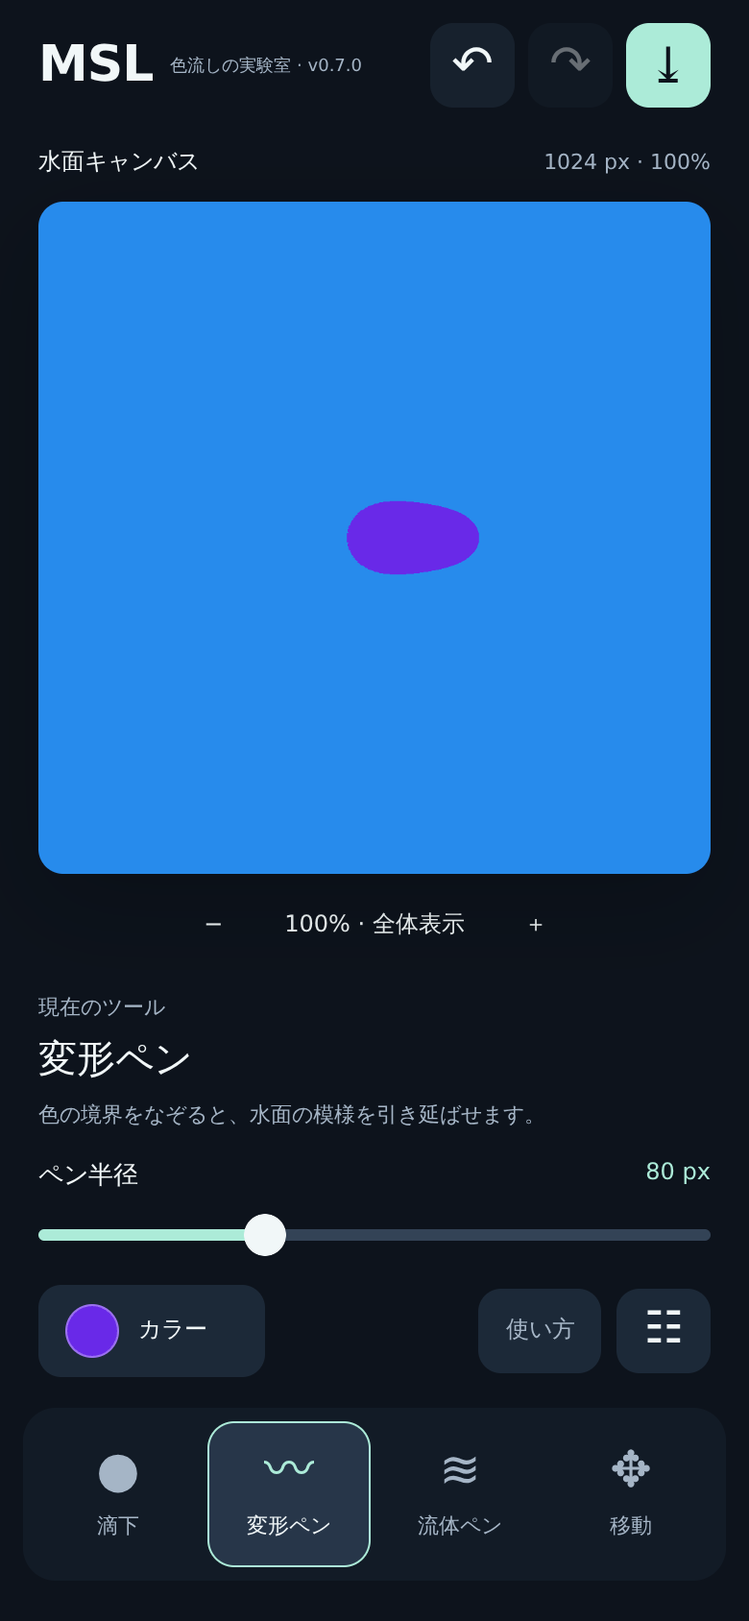
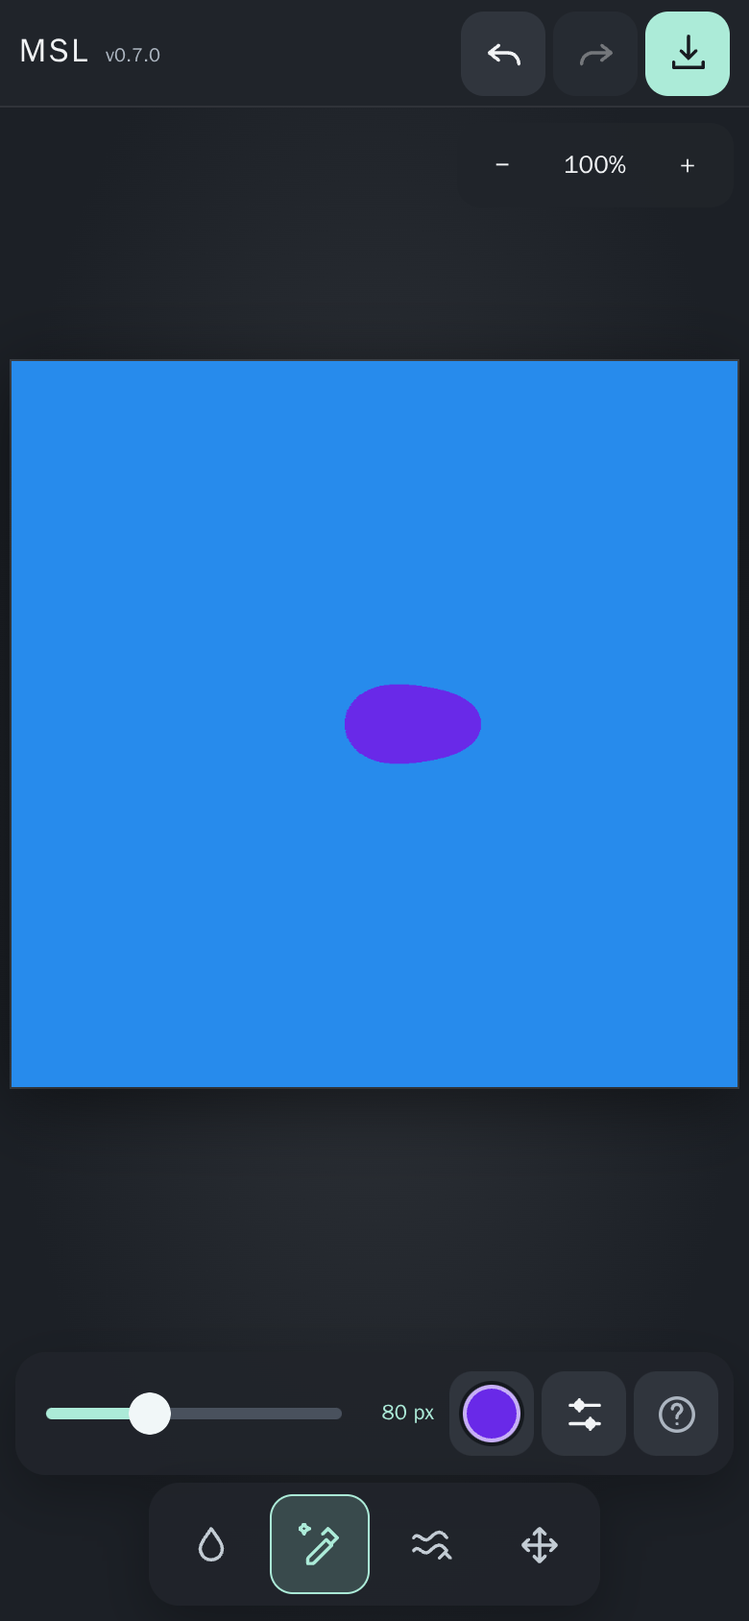
キャンバス拡大とアイビス風UI

diff --git a/src/app/styles.css b/src/app/styles.css
@@ -1,45 +1,45 @@
 :root {
   font-family: "Noto Sans JP", system-ui, sans-serif;
-  color: #f1f7f8; background: #0d131c; color-scheme: dark; font-synthesis: none;
-  --bg: #0d131c; --panel: #1c2938; --button: #17212d; --muted: #a5b5c6;
-  --accent: #acebd8; --line: #334356; --selected: #273649;
+  color: #f1f3f5; background: #181b20; color-scheme: dark; font-synthesis: none;
+  --bg: #181b20; --panel: #272b32; --button: #30353d; --muted: #acb5c0;
+  --accent: #acebd8; --line: #49515d; --selected: #394a4c;
   --safe-top: env(safe-area-inset-top, 0px); --safe-bottom: env(safe-area-inset-bottom, 0px);
 }
 * { box-sizing: border-box; }
 body { margin: 0; }
 button, input, select { font: inherit; }
 button, select, input[type=number], input[type=text] { border: 1px solid var(--line); border-radius: 12px; background: var(--button); color: inherit; }
-button { min-height: 44px; padding: 10px 14px; cursor: pointer; touch-action: manipulation; transition: background .15s; }
+button { min-height: 44px; padding: 10px 14px; cursor: pointer; touch-action: manipulation; }
 button:active { background: var(--selected); }
 button:disabled { opacity: .4; cursor: default; }
 button:focus-visible, input:focus-visible, select:focus-visible, summary:focus-visible, canvas:focus-visible { outline: 3px solid var(--accent); outline-offset: 3px; }
 @media (hover: hover) { button:hover:not(:disabled) { background: var(--selected); } }
+@media (prefers-reduced-motion: no-preference) { button { transition: background .15s; } }
 .primary { background: var(--accent); color: var(--bg); border-color: var(--accent); font-weight: 700; }
 @media (hover: hover) { .primary:hover:not(:disabled) { background: #d0f5e9; } }
-.app { min-height: 100vh; min-height: 100dvh; padding: var(--safe-top) env(safe-area-inset-right, 0px) var(--safe-bottom) env(safe-area-inset-left, 0px); display: flex; flex-direction: column; }
-.topbar { display: flex; align-items: center; justify-content: space-between; gap: 12px; padding: 18px 28px; border-bottom: 1px solid #1c2938; }
-.brand { display: flex; align-items: center; gap: 14px; min-width: 0; }
-h1 { margin: 0; font-size: 26px; letter-spacing: -.5px; }
-.brand div { display: grid; gap: 4px; }
-.brand div > span { font-size: 9px; letter-spacing: .5px; color: var(--muted); }
+.app { height: 100vh; height: 100dvh; min-height: 0; padding: var(--safe-top) env(safe-area-inset-right, 0px) var(--safe-bottom) env(safe-area-inset-left, 0px); display: flex; flex-direction: column; overflow: hidden; }
+.topbar { flex: none; display: flex; align-items: center; justify-content: space-between; gap: 12px; min-height: 56px; padding: 5px 16px; border-bottom: 1px solid #ffffff12; background: #20242a; }
+.brand { display: flex; align-items: baseline; gap: 8px; min-width: 0; }
+h1 { margin: 0; font-size: 17px; font-weight: 800; letter-spacing: .08em; }
 .brand small { font-size: 10px; color: var(--muted); }
-.actions { display: flex; gap: 7px; }
-.icon-button { width: 44px; height: 44px; border: 0; padding: 0; font-size: 26px; }
-.workspace { display: grid; grid-template-columns: minmax(0, 1fr) 320px; align-items: center; gap: clamp(24px, 4vw, 64px); width: 100%; max-width: 1440px; padding: 24px 32px; margin: auto; flex: 1; }
-.surface-area { min-width: 0; position: relative; }
-.surface-heading { max-width: 850px; margin: 0 auto 14px; display: flex; justify-content: space-between; align-items: center; gap: 8px; font-size: 12px; }
-.surface-heading > span:last-child { font-size: 11px; color: var(--muted); }
-.canvas-frame { position: relative; width: min(100%, calc(100dvh - 310px)); max-width: 850px; aspect-ratio: 1; margin: auto; overflow: hidden; background: #111925; border-radius: 13px; box-shadow: 0 16px 50px #0003; -webkit-user-select: none; user-select: none; -webkit-touch-callout: none; }
+.actions { display: flex; gap: 4px; }
+.icon-button { width: 44px; height: 44px; border: 0; padding: 0; display: grid; place-items: center; }
+.icon-button svg, .quick-actions svg, .tool svg { width: 23px; height: 23px; fill: none; stroke: currentColor; stroke-width: 1.8; stroke-linecap: round; stroke-linejoin: round; }
+.workspace { position: relative; flex: 1; min-height: 0; width: 100%; display: grid; place-items: center; padding: 8px 230px 42px 84px; background: radial-gradient(ellipse at 50% 45%, #30343a, #1c2026 74%); }
+.surface-area { position: relative; min-width: 0; width: 100%; height: 100%; display: grid; place-items: center; }
+.canvas-frame { position: relative; width: min(100%, calc(100dvh - 136px)); aspect-ratio: 1; overflow: hidden; background: #111925; box-shadow: 0 8px 38px #0008, 0 0 0 1px #ffffff29; -webkit-user-select: none; user-select: none; -webkit-touch-callout: none; }
 canvas { display: block; width: 100%; height: 100%; touch-action: none; cursor: crosshair; }
 .tool-pan canvas { cursor: grab; }
 .tool-pan canvas:active { cursor: grabbing; }
 .brush-cursor { display: none; position: absolute; pointer-events: none; border: 1px solid #fff; box-shadow: 0 0 0 1px #0007; border-radius: 50%; transform: translate(-50%, -50%); }
 .tool-pan .brush-cursor, .tool-crop .brush-cursor { visibility: hidden; }
 .tool-crop canvas { cursor: default; }
-.view-controls { display: flex; justify-content: center; gap: 5px; margin: 10px auto 0; }
-.view-controls button { background: transparent; border: none; font-size: 12px; min-width: 44px; padding: 5px 10px; }
-.surface-caption { font-size: 12px; color: var(--muted); line-height: 1.8; margin: 4px auto 0; max-width: 850px; min-height: 44px; }
-.control-area { min-width: 0; }
+.view-controls { position: absolute; bottom: -36px; left: 50%; transform: translateX(-50%); display: flex; gap: 2px; padding: 2px; border-radius: 12px; background: #20242ae8; }
+.view-controls button { background: transparent; border: none; font-size: 13px; min-width: 44px; min-height: 32px; padding: 4px 8px; }
+.surface-caption { position: absolute; width: 1px; height: 1px; overflow: hidden; clip-path: inset(50%); white-space: nowrap; }
+.control-area { position: absolute; inset: 0; pointer-events: none; }
+.control-area > * { pointer-events: auto; }
+.visually-hidden { position: absolute !important; width: 1px !important; height: 1px !important; padding: 0 !important; margin: -1px !important; overflow: hidden !important; clip-path: inset(50%) !important; white-space: nowrap !important; border: 0 !important; }
 .eyebrow { color: var(--muted); font-size: 11px; }
 .current-tool h2 { font-size: 24px; margin: 8px 0; }
 .current-tool p, .pan-hint { color: var(--muted); font-size: 12px; line-height: 1.8; margin: 0; }
@@ -52,22 +52,24 @@ input[type=range]::-moz-range-track { height: 6px; border-radius: 3px; backgroun
 input[type=range]::-moz-range-progress { height: 6px; border-radius: 3px; background: var(--accent); }
 input[type=range]::-webkit-slider-thumb { appearance: none; width: 22px; height: 22px; border: 0; border-radius: 50%; margin-top: -8px; background: url('../assets/figma/slider-thumb.svg') center / 22px 22px no-repeat; }
 input[type=range]::-moz-range-thumb { width: 22px; height: 22px; border: 0; border-radius: 50%; background: url('../assets/figma/slider-thumb.svg') center / 22px 22px no-repeat; }
-.quick-actions { display: flex; align-items: center; gap: 8px; }
-.quick-actions button { background: var(--panel); border: 0; font-size: 12px; }
-.color-trigger { display: flex; align-items: center; gap: 10px; min-width: 118px; }
-.current-color { display: block; width: 28px; height: 28px; border-radius: 50%; border: 1px solid #ffffff55; }
-.help-trigger { margin-left: auto; color: var(--muted); }
-.settings-trigger { display: flex; align-items: center; gap: 6px; }
-.settings-trigger > span:first-child { font-size: 23px; line-height: 1; }
-.secondary-quick { padding-top: 10px; }
-.tool-dock { display: grid; grid-template-columns: repeat(4, minmax(0, 1fr)); gap: 4px; padding: 7px; border-radius: 17px; background: #121b26; margin-top: 20px; }
-.tool { display: flex; flex-direction: column; align-items: center; justify-content: center; gap: 8px; min-width: 0; height: 82px; font-size: 11px; padding: 8px 2px; color: var(--muted); background: transparent; border: 1px solid transparent; border-radius: 14px; }
-.tool > span { font-size: 26px; line-height: 1; }
-.tool.selected { color: #f1f7f8; background: var(--selected); border-color: var(--accent); }
-.tool.selected > span { color: var(--accent); }
-footer { display: flex; justify-content: space-between; gap: 16px; padding: 12px 28px; font-size: 11px; color: var(--muted); border-top: 1px solid #1c2938; }
-.stop-flow { display: block; margin: 8px auto; font-size: 12px; border-color: var(--accent); }
-.error { padding: 12px; color: #ffd4d4; border: 1px solid #bd6875; border-radius: 8px; line-height: 1.7; overflow-wrap: anywhere; }
+.quick-controls { position: absolute; right: 14px; top: 50%; transform: translateY(-50%); width: 196px; display: grid; gap: 10px; padding: 12px; border-radius: 16px; background: #20242aec; box-shadow: 0 10px 28px #0004; }
+.quick-size { min-height: 54px; display: grid; align-items: center; }
+.quick-size .slider-label { margin: 0; font-size: 11px; color: var(--muted); }
+.quick-size .slider-label output { font-size: 11px; }
+.quick-size input[type=range] { height: 32px; }
+.quick-actions { display: flex; align-items: center; justify-content: space-between; gap: 6px; }
+.quick-actions button { width: 48px; height: 48px; padding: 0; display: grid; place-items: center; background: var(--button); border: 0; }
+.current-color { display: block; width: 30px; height: 30px; border-radius: 50%; border: 2px solid #ffffffa0; box-shadow: 0 0 0 2px #15191e; }
+.help-trigger { color: var(--muted); }
+.pan-hint { display: block; text-align: center; font-size: 22px; color: var(--muted); }
+.secondary-quick { border-top: 1px solid var(--line); }
+.secondary-quick .slider-label { margin: 10px 0 0; font-size: 11px; }
+.tool-dock { position: absolute; top: 50%; left: 14px; transform: translateY(-50%); display: flex; flex-direction: column; gap: 5px; padding: 6px; border-radius: 16px; background: #20242aec; box-shadow: 0 10px 28px #0004; }
+.tool { display: grid; place-items: center; width: 52px; height: 52px; min-height: 44px; padding: 0; color: #c3ccd4; background: transparent; border: 1px solid transparent; border-radius: 12px; }
+.tool.selected { color: var(--accent); background: var(--selected); border-color: var(--accent); }
+footer { position: absolute; width: 1px; height: 1px; overflow: hidden; clip-path: inset(50%); white-space: nowrap; }
+.stop-flow { position: absolute; bottom: 8px; right: 8px; z-index: 2; font-size: 12px; border-color: var(--accent); background: var(--panel); }
+.error { position: absolute; top: 8px; left: 50%; transform: translateX(-50%); z-index: 3; width: min(90%, 420px); padding: 12px; background: var(--panel); color: #ffd4d4; border: 1px solid #bd6875; border-radius: 8px; line-height: 1.7; overflow-wrap: anywhere; }
 .bottom-sheet { position: fixed; inset: auto 0 0; width: min(100%, 480px); max-width: 100%; max-height: 88vh; max-height: 88dvh; padding: 12px 22px max(20px, env(safe-area-inset-bottom, 0px)); margin: 0 auto; border: 1px solid var(--line); border-bottom: 0; border-radius: 24px 24px 0 0; color: #f1f7f8; background: var(--panel); overflow: auto; }
 .bottom-sheet[open] { animation: sheet-in .18s ease-out; }
 dialog:modal { overscroll-behavior: contain; }
@@ -133,7 +135,7 @@ input[type=color]::-moz-color-swatch { border: 1px solid #ffffff66; border-radiu
 .crop-ne { left: 100%; top: 0; transform: translate(-50%, -50%); cursor: nesw-resize; }
 .crop-se { left: 100%; top: 100%; transform: translate(-50%, -50%); cursor: nwse-resize; }
 .crop-sw { left: 0; top: 100%; transform: translate(-50%, -50%); cursor: nesw-resize; }
-.crop-toolbar { padding: 16px; border-radius: 16px; background: var(--panel); }
+.crop-toolbar { position: absolute; right: 14px; top: 50%; transform: translateY(-50%); width: min(270px, 30vw); max-height: calc(100% - 20px); overflow: auto; padding: 16px; border-radius: 16px; background: var(--panel); }
 .crop-ratios { display: flex; gap: 5px; flex-wrap: wrap; align-items: center; }
 .crop-ratios .eyebrow { width: 100%; }
 .crop-ratios button { padding: 8px; font-size: 12px; }
@@ -149,57 +151,47 @@ input[type=color]::-moz-color-swatch { border: 1px solid #ffffff66; border-radiu
 @media (min-width: 760px) {
   .bottom-sheet { bottom: 24px; border: 1px solid var(--line); border-radius: 24px; }
 }
-@media (min-width: 760px) and (max-width: 1100px) {
-  .workspace { grid-template-columns: minmax(0, 1fr) 260px; gap: 24px; padding-inline: 24px; }
-}
 @media (max-width: 759px) {
-  .topbar { padding: 12px 20px; border: 0; }
-  .brand { gap: 9px; }
-  .brand div > span { display: none; }
-  .brand small { font-size: 9px; }
-  .workspace { display: flex; flex-direction: column; align-items: stretch; gap: 10px; padding: 8px 20px 12px; width: 100%; max-width: 600px; }
-  .surface-heading { margin-bottom: 12px; }
-  .canvas-frame { width: min(100%, max(160px, calc(100dvh - 494px - var(--safe-top) - var(--safe-bottom)))); }
-  .view-controls { margin-top: 4px; }
-  .view-controls button { min-height: 44px; }
-  .surface-caption { position: absolute; width: 1px; height: 1px; min-height: 0; overflow: hidden; clip-path: inset(50%); white-space: nowrap; }
-  .current-tool { margin-bottom: 12px; }
-  .current-tool h2 { font-size: 20px; margin: 6px 0; }
-  .current-tool p { font-size: 11px; }
-  .quick-controls > .slider-label { margin: 10px 0 2px; }
-  .quick-actions { margin-top: 4px; }
+  .topbar { padding-inline: 10px; }
+  .workspace { padding: 6px 6px 152px; }
+  .canvas-frame { width: min(100%, calc(100dvh - 242px - var(--safe-top) - var(--safe-bottom))); }
+  .view-controls { bottom: auto; top: 2px; right: 2px; left: auto; transform: none; }
+  .view-controls button { min-height: 40px; }
+  .quick-controls { top: auto; bottom: 76px; left: 8px; right: 8px; transform: none; width: auto; display: flex; align-items: center; gap: 8px; padding: 5px 8px; }
+  .quick-size { min-width: 0; flex: 1; }
+  .quick-size .slider-label { display: flex; align-items: center; gap: 8px; font-size: 0; }
+  .quick-size .slider-label output { order: 2; flex: none; min-width: 40px; text-align: right; font-size: 11px; }
+  .quick-size input[type=range] { flex: 1; min-width: 0; }
+  .quick-actions { flex: none; gap: 4px; }
+  .quick-actions button { width: 44px; height: 44px; }
   .secondary-quick { display: none; }
-  .desktop-label { display: none; }
-  .settings-trigger { min-width: 46px; justify-content: center; }
-  .tool-dock { margin: 16px -8px 0; }
-  .tool { height: 76px; }
-  footer { display: none; }
+  .tool-dock { top: auto; bottom: 8px; left: 50%; transform: translateX(-50%); flex-direction: row; }
+  .tool { width: 52px; height: 52px; }
   .bottom-sheet { padding-inline: 22px; }
-  .crop-toolbar { padding: 12px; }
+  .workspace:has(.crop-toolbar) { display: flex; flex-direction: column; justify-content: flex-start; overflow: auto; padding: 8px 8px 16px; }
+  .workspace:has(.crop-toolbar) .surface-area { flex: none; height: auto; min-height: 0; display: flex; justify-content: center; margin-bottom: 42px; }
+  .workspace:has(.crop-toolbar) .canvas-frame { width: min(100%, max(190px, calc(100dvh - 460px))); }
+  .workspace:has(.crop-toolbar) .view-controls { top: auto; bottom: -42px; right: auto; left: 50%; transform: translateX(-50%); }
+  .workspace:has(.crop-toolbar) .control-area { position: static; display: flex; flex-direction: column; align-items: center; gap: 10px; width: 100%; }
+  .workspace:has(.crop-toolbar) .crop-toolbar { position: static; transform: none; width: min(100%, 480px); max-height: none; padding: 12px; }
+  .workspace:has(.crop-toolbar) .tool-dock { position: static; transform: none; }
 }
 @media (max-width: 360px) {
-  .topbar { padding-inline: 12px; }
-  .workspace { padding-inline: 12px; }
-  .brand small { font-size: 8px; }
-  .brand { gap: 6px; }
-  .actions { gap: 4px; }
+  .brand small { font-size: 9px; }
   .bottom-sheet { padding-inline: 16px; }
   .swatches { gap: 6px; grid-template-columns: repeat(5, minmax(0, 1fr)); }
 }
-@media (max-width: 759px) and (max-height: 740px) {
-  .canvas-frame { width: min(100%, max(160px, calc(100dvh - 455px - var(--safe-top) - var(--safe-bottom)))); }
-  .current-tool > .eyebrow { display: none; }
-  .current-tool { margin-bottom: 4px; }
-  .current-tool h2 { font-size: 18px; margin: 0 0 4px; }
-  .current-tool p { line-height: 1.6; }
-  .tool { height: 64px; }
-  .tool-dock { margin-top: 12px; }
+@media (max-width: 759px) and (max-height: 560px) {
+  .workspace:not(:has(.crop-toolbar)) { padding-bottom: 120px; }
+  .workspace:not(:has(.crop-toolbar)) .canvas-frame { width: min(100%, calc(100dvh - 188px - var(--safe-top) - var(--safe-bottom))); }
+  .quick-controls { bottom: 65px; }
+  .tool-dock { bottom: 3px; }
+  .tool { height: 48px; }
 }
-@media (orientation: landscape) and (max-height: 600px) and (min-width: 600px) {
-  .workspace { display: grid; grid-template-columns: minmax(0, 1fr) 280px; align-items: start; max-width: 1100px; gap: 20px; }
-  .canvas-frame { width: min(100%, max(180px, calc(100dvh - 160px))); }
-  .current-tool { margin-bottom: 12px; }
+@media (min-width: 760px) and (max-height: 600px) {
+  .workspace { padding-bottom: 32px; }
+  .canvas-frame { width: min(100%, calc(100dvh - 100px - var(--safe-top) - var(--safe-bottom))); }
+  .quick-controls { max-height: calc(100% - 12px); overflow: auto; }
   .secondary-quick { display: none; }
-  .tool-dock { margin-top: 12px; }
 }
 @media (prefers-reduced-motion: reduce) { *, *::before, *::after { animation: none !important; transition: none !important; } }

diff --git a/src/app/App.tsx b/src/app/App.tsx
@@ -236,16 +236,15 @@ export function App() {
 
   return <div className="app">
     <header className="topbar">
-      <div className="brand"><h1>MSL</h1><div><span>MARBLING SURFACE LAB</span><small>色流しの実験室 · v{version}</small></div></div>
+      <div className="brand"><h1>MSL</h1><small>v{version}</small></div>
       <nav className="actions" aria-label="編集操作">
-        <button className="icon-button" aria-label="Undo" title="元に戻す · Ctrl / Cmd + Z" disabled={busy || !status.canUndo} onClick={() => engineRef.current?.undo()}>↶</button>
-        <button className="icon-button" aria-label="Redo" title="やり直す · Ctrl / Cmd + Shift + Z" disabled={busy || !status.canRedo} onClick={() => engineRef.current?.redo()}>↷</button>
-        <button className="primary icon-button" aria-label="作品を書き出す" title="PNG保存・切り抜き" aria-haspopup="dialog" disabled={busy} onClick={() => { setExportMessage(''); setSheet('export'); }}>⤓</button>
+        <button className="icon-button" aria-label="Undo" title="元に戻す · Ctrl / Cmd + Z" disabled={busy || !status.canUndo} onClick={() => engineRef.current?.undo()}><svg viewBox="0 0 24 24" aria-hidden="true"><path d="M9 8 4 12l5 4M4 12h10a6 6 0 0 1 6 6" /></svg></button>
+        <button className="icon-button" aria-label="Redo" title="やり直す · Ctrl / Cmd + Shift + Z" disabled={busy || !status.canRedo} onClick={() => engineRef.current?.redo()}><svg viewBox="0 0 24 24" aria-hidden="true"><path d="m15 8 5 4-5 4m5-4H10a6 6 0 0 0-6 6" /></svg></button>
+        <button className="primary icon-button" aria-label="作品を書き出す" title="PNG保存・切り抜き" aria-haspopup="dialog" disabled={busy} onClick={() => { setExportMessage(''); setSheet('export'); }}><svg viewBox="0 0 24 24" aria-hidden="true"><path d="M12 3v12m-4-4 4 4 4-4M4 17v3h16v-3" /></svg></button>
       </nav>
     </header>
     <main className="workspace">
       <section className="surface-area" aria-label="水面">
-        <div className="surface-heading"><span>{cropMode ? '切り抜く範囲を選択' : '水面キャンバス'}</span><span>{resolution} px · {Math.round(view.zoom * 100)}%</span></div>
         <div className={`canvas-frame tool-${tool} ${cropMode ? 'tool-crop' : ''}`}>
           <canvas ref={canvasRef} tabIndex={0} aria-label="マーブリング水面" aria-describedby="canvas-instructions"
             onPointerMove={(event) => {
@@ -261,7 +260,7 @@ export function App() {
           <div ref={cursorRef} className="brush-cursor" aria-hidden="true" />
           {cropMode && !status.contextLost && <CropOverlay crop={crop} aspect={cropAspect} onChange={setCrop} />}
         </div>
-        <div className="view-controls"><button aria-label="縮小" disabled={!ready || status.contextLost || cropMode} onClick={() => zoomBy(0.8)}>−</button><button aria-label="表示をフィット" disabled={!ready || status.contextLost || cropMode} onClick={fit}>{Math.round(view.zoom * 100)}% · 全体表示</button><button aria-label="拡大" disabled={!ready || status.contextLost || cropMode} onClick={() => zoomBy(1.25)}>＋</button></div>
+        <div className="view-controls"><button aria-label="縮小" title="縮小" disabled={!ready || status.contextLost || cropMode} onClick={() => zoomBy(0.8)}>−</button><button aria-label="表示をフィット" title="全体表示" disabled={!ready || status.contextLost || cropMode} onClick={fit}>{Math.round(view.zoom * 100)}%</button><button aria-label="拡大" title="拡大" disabled={!ready || status.contextLost || cropMode} onClick={() => zoomBy(1.25)}>＋</button></div>
         <p id="canvas-instructions" className="surface-caption" aria-live="polite">{note}</p>
         {status.isFlowing && <button className="stop-flow" onClick={() => engineRef.current?.settleFlow()}>流れを止めて確定</button>}
         {error && <div role="alert" className="error">{error}</div>}

diff --git a/src/components/QuickControls.tsx b/src/components/QuickControls.tsx
@@ -11,15 +11,18 @@ export const QuickControls = memo(function QuickControls(p: {
 }) {
   const pen = p.tool === 'stroke' || p.tool === 'flow';
   return <section className="quick-controls" aria-label="ツールの調整">
-    <div className="current-tool"><span className="eyebrow">現在のツール</span><h2>{toolNames[p.tool]}</h2><p>{toolHints[p.tool]}</p></div>
-    {p.tool === 'drop' && <Slider label="滴の半径" value={p.radius} min={4} max={180} unit="px" onChange={p.setRadius} />}
-    {pen && <Slider label="ペン半径" value={p.brushRadius} min={2} max={240} unit="px" onChange={p.setBrushRadius} />}
-    {p.tool === 'pan' && <p className="pan-hint">ピンチで拡大・縮小できます。全体表示で元の位置に戻ります。</p>}
+    <h2 className="visually-hidden">{toolNames[p.tool]}</h2>
+    <p className="visually-hidden">{toolHints[p.tool]}</p>
+    <div className="quick-size">
+      {p.tool === 'drop' && <Slider label="滴の半径" value={p.radius} min={4} max={180} unit="px" onChange={p.setRadius} />}
+      {pen && <Slider label="ペン半径" value={p.brushRadius} min={2} max={240} unit="px" onChange={p.setBrushRadius} />}
+      {p.tool === 'pan' && <span className="pan-hint">✥ <span className="visually-hidden">ピンチで拡大・縮小できます。</span></span>}
+    </div>
     <div className="quick-actions">
-      <button className="color-trigger" aria-label="カラーを選択" aria-haspopup="dialog" onClick={p.openColors}>
-        <span className="current-color" style={{ background: p.color }} aria-hidden="true" />カラー</button>
-      <button className="help-trigger" aria-label="簡易ヘルプ" aria-haspopup="dialog" onClick={p.openHelp}>使い方</button>
-      <button className="settings-trigger" aria-label="詳細設定" aria-haspopup="dialog" onClick={p.openSettings}><span aria-hidden="true">☷</span><span className="desktop-label">設定</span></button>
+      <button className="color-trigger" aria-label="カラーを選択" title="カラーを選択" aria-haspopup="dialog" onClick={p.openColors}>
+        <span className="current-color" style={{ background: p.color }} aria-hidden="true" /></button>
+      <button className="settings-trigger" aria-label="詳細設定" title="詳細設定" aria-haspopup="dialog" onClick={p.openSettings}><svg viewBox="0 0 24 24" aria-hidden="true"><path d="M4 7h16M4 17h16M9 4v6m6 4v6" /><circle cx="9" cy="7" r="2" /><circle cx="15" cy="17" r="2" /></svg></button>
+      <button className="help-trigger" aria-label="簡易ヘルプ" title="使い方" aria-haspopup="dialog" onClick={p.openHelp}><svg viewBox="0 0 24 24" aria-hidden="true"><circle cx="12" cy="12" r="9" /><path d="M9.5 9a2.5 2.5 0 1 1 4.2 1.8c-1.2 1-1.7 1.4-1.7 3M12 17h.01" /></svg></button>
     </div>
     {p.tool === 'drop' && <div className="secondary-quick"><Slider label="連続滴下の間隔" value={p.dropSpacing} min={0.3} max={2} step={0.1} unit="× 半径" onChange={p.setDropSpacing} /></div>}
     {pen && <div className="secondary-quick">

diff --git a/e2e/canvas-layout.spec.ts b/e2e/canvas-layout.spec.ts
@@ -1,0 +1,23 @@
+import { expect, test } from '@playwright/test';
+
+test('canvas occupies the available editor space without covering icon controls', async ({ page }) => {
+  await page.goto('./?resolution=512');
+  for (const [width, height] of [[390, 844], [320, 667], [1440, 900], [844, 390]]) {
+    await page.setViewportSize({ width, height });
+    const canvas = (await page.locator('canvas').boundingBox())!;
+    const dock = (await page.getByRole('navigation', { name: '描画ツール' }).boundingBox())!;
+    const quick = (await page.getByRole('region', { name: 'ツールの調整' }).boundingBox())!;
+    expect(canvas.width).toBeGreaterThan(width <= 390 ? width - 24 : 230);
+    expect(Math.abs(canvas.width - canvas.height)).toBeLessThan(2);
+    expect(canvas.y).toBeGreaterThanOrEqual(55);
+    expect(canvas.y + canvas.height).toBeLessThanOrEqual(height);
+    expect(dock.y + dock.height).toBeLessThanOrEqual(height);
+    expect(quick.x + quick.width).toBeLessThanOrEqual(width);
+    expect(await page.evaluate(() => document.documentElement.scrollWidth)).toBeLessThanOrEqual(width);
+  }
+  await page.getByRole('button', { name: '変形ペン' }).click();
+  await expect(page.getByRole('button', { name: '変形ペン' })).toHaveAttribute('aria-pressed', 'true');
+  await expect(page.getByRole('slider', { name: 'ペン半径' })).toBeVisible();
+  await page.getByRole('button', { name: '詳細設定' }).click();
+  await expect(page.getByRole('dialog')).toBeVisible();
+});

diff --git a/src/components/ToolDock.tsx b/src/components/ToolDock.tsx
@@ -10,10 +10,15 @@ export const toolHints: Record<Tool, string> = {
 
 export function ToolDock({ tool, onChange, disabled }: { tool: Tool; onChange: (tool: Tool) => void; disabled: boolean }) {
   return <nav className="tool-dock" aria-label="描画ツール">
-    {(['drop', 'stroke', 'flow', 'pan'] as const).map((name, i) => <button key={name}
-      className={`tool ${tool === name ? 'selected' : ''}`} aria-label={toolNames[name]}
+    {(['drop', 'stroke', 'flow', 'pan'] as const).map((name) => <button key={name}
+      className={`tool ${tool === name ? 'selected' : ''}`} aria-label={toolNames[name]} title={toolNames[name]}
       aria-pressed={tool === name} disabled={disabled} onClick={() => onChange(name)}>
-      <span aria-hidden="true">{['●', '〰', '≋', '✥'][i]}</span>{toolNames[name]}
+      <svg viewBox="0 0 24 24" aria-hidden="true">
+        {name === 'drop' && <path d="M12 3c-2.5 4-6 7.7-6 11a6 6 0 0 0 12 0c0-3.3-3.5-7-6-11Z" />}
+        {name === 'stroke' && <><path d="m5 19 10-10 3 3L8 22H5v-3ZM13 6l3-3 5 5-3 3" /><path d="m3 6 1-2 2-1-2-1-1-2-1 2-2 1 2 1 1 2Z" /></>}
+        {name === 'flow' && <><path d="M3 8c3-4 5 4 9 0s6-4 9 0M3 15c3-4 5 4 9 0s6-4 9 0" /><path d="m17 19 3-3 3 3" /></>}
+        {name === 'pan' && <><path d="M12 3v18M3 12h18m-12-6 3-3 3 3m-6 12 3 3 3-3M6 9l-3 3 3 3m12-6 3 3-3 3" /></>}
+      </svg>
     </button>)}
   </nav>;
 }

diff --git a/docs/ui-verification.md b/docs/ui-verification.md
@@ -1,0 +1,9 @@
+# UI検証記録
+
+## 水面中心のエディタ
+
+- Modern Web Guidance `responsive-design` / `css-layout`: `100dvh` と正方形の `aspect-ratio` で、水面を表示可能な領域まで拡大。スクロールバーを含む `100vw` は使わず、横幅は親領域から決める。動的ビューポート単位と `aspect-ratio` は広く対応しており、旧来の表示領域には `100vh` を先に指定。
+- `form-factor-adaptation` / `accessibility`: 文字を削ったボタンは `aria-label` と `title` を残し、SVGを装飾扱いにする。タッチ対象は44px以上、フォーカス輪郭とセーフエリアを維持。詳細な説明は視覚的に隠して支援技術から読めるようにし、細かい設定は既存のdialog内に残す。
+- `icons`: 外部アイコンライブラリは増やさず、少数のSVGをインラインで描画して `currentColor` に追従させる。CSSの新しいスタイルクエリへの依存はない。
+- `toolbar`: ツール列は既存のナビゲーションと個別のボタンのまま維持。`role="toolbar"` / `focusgroup` を付ける場合に必要となる矢印キー操作と非対応ブラウザ用のロービングフォーカスを実装しないまま、見た目だけをツールバーと呼ばない。
+- 確認: `npm run build` 成功、`npm test` 19件成功、`npm run test:e2e` 30件成功。スマートフォン・横画面・PCで正方形、操作の到達性、切り抜き・描画の回帰を確認。自動計測の性能JSONは実行環境依存のため変更しない。
